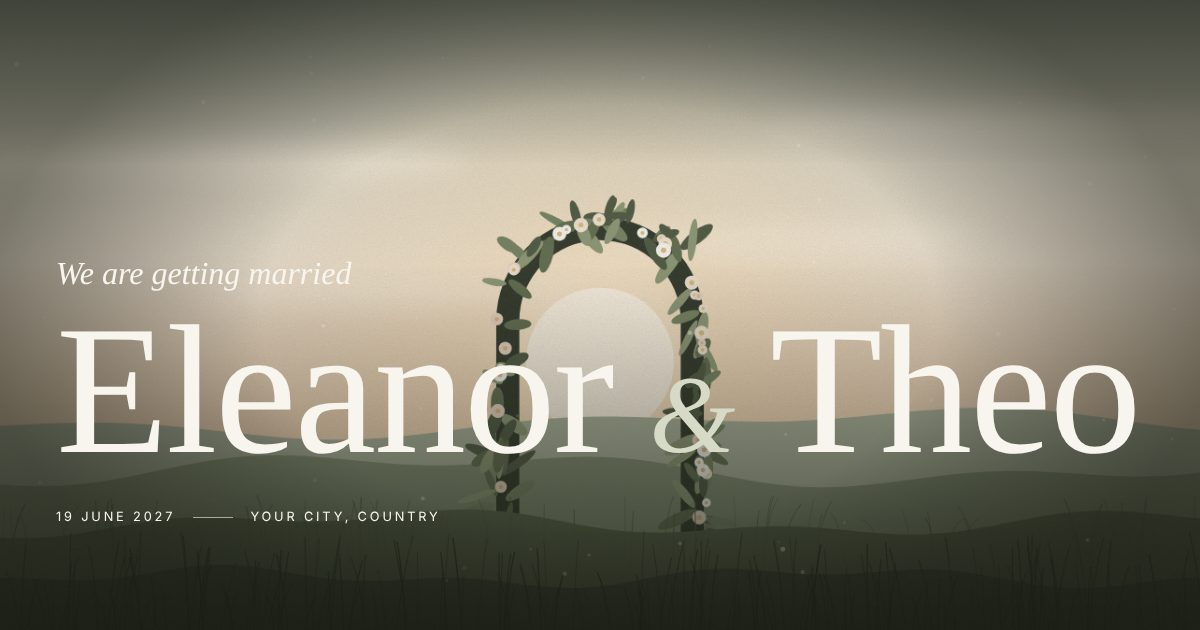
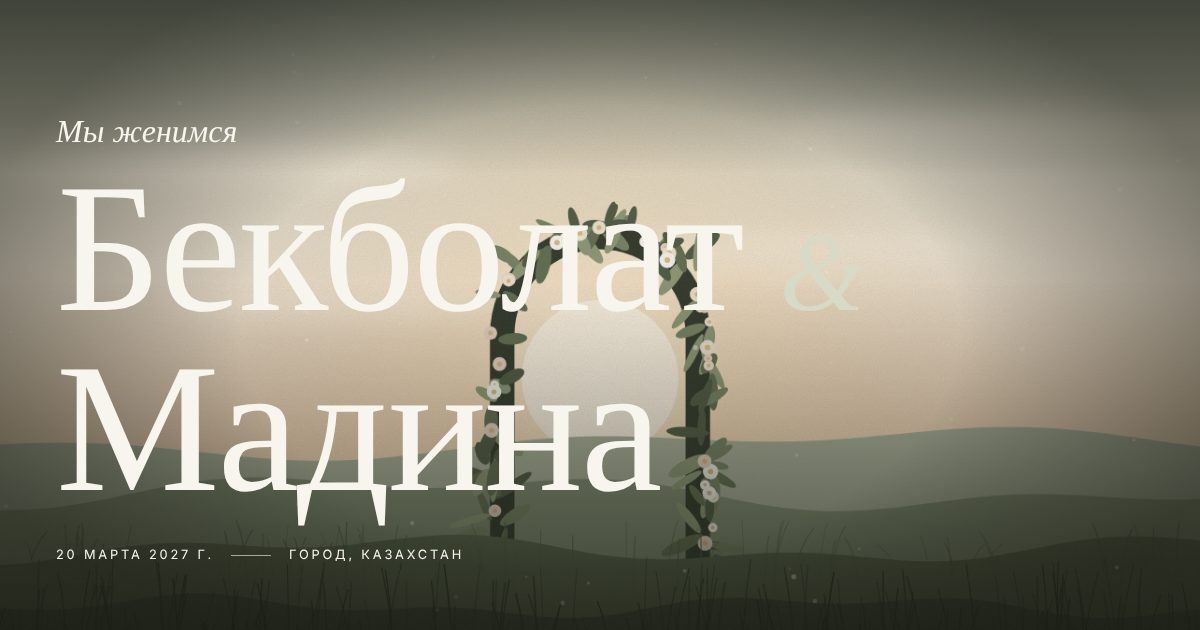
Set couple names, date, Russian default; hide placeholder story
Claude-Session: https://claude.ai/code/session_01RNUfpmcLh5siSrdeYY7ep2

diff --git a/src/config.js b/src/config.js
@@ -20,14 +20,14 @@ window.WEDDING_CONFIG = {
 
   /* ---------------------------------------------------------------- Language */
   languages: {
-    default: 'en',
+    default: 'ru',
     available: ['en', 'ru'],   // first-time visitors see their browser language if listed here
     detect: true,              // false = always start in `default`
   },
 
   /* ---------------------------------------------------------------- Sections */
   sections: {
-    story: true,        // "Our story"
+    story: false,       // "Our story" - off until the couple's real story is added
     countdown: true,
     schedule: true,
     venue: true,
@@ -37,9 +37,9 @@ window.WEDDING_CONFIG = {
 
   /* ------------------------------------------------------------------ Couple */
   couple: {                                            // PLACEHOLDER
-    first:  { en: 'Eleanor', ru: 'Элеонора' },
-    second: { en: 'Theo',    ru: 'Тео' },
-    hashtag: '#EleanorAndTheo',                        // PLACEHOLDER (use '' to hide)
+    first:  { en: 'Bekbolat', ru: 'Бекболат' },
+    second: { en: 'Madina',   ru: 'Мадина' },
+    hashtag: '',                                       // e.g. '#БекболатИМадина' ('' hides it)
   },
 
   /* ------------------------------------------------------------------- Event */
@@ -48,9 +48,9 @@ window.WEDDING_CONFIG = {
     // The countdown converts it using `timeZone`, so it is correct for every
     // visitor wherever they are. Use an IANA name such as 'Europe/Paris',
     // 'Asia/Almaty', 'America/New_York'.
-    start: '2027-06-19T16:00',                         // PLACEHOLDER
-    timeZone: 'Europe/Paris',                          // PLACEHOLDER
-    placeLabel: { en: 'Your City, Country', ru: 'Ваш город, страна' },  // PLACEHOLDER
+    start: '2027-03-20T16:00',                         // DATE confirmed; TIME 16:00 is a PLACEHOLDER
+    timeZone: 'Asia/Atyrau',                         // ASSUMED (UTC+5); confirm the venue city
+    placeLabel: { en: 'City, Kazakhstan', ru: 'Город, Казахстан' },  // PLACEHOLDER
   },
 
   /* ------------------------------------------------------------------ Images */
@@ -185,7 +185,7 @@ window.WEDDING_CONFIG = {
 
   /* -------------------------------------------------------------------- RSVP */
   rsvp: {
-    deadline: '2027-05-15',     // PLACEHOLDER  last day to reply (YYYY-MM-DD, venue time zone)
+    deadline: '2027-03-01',     // PLACEHOLDER  last day to reply (YYYY-MM-DD, venue time zone)
     maxGuests: 4,               // largest party one reply can cover
     // Where replies are sent. Leave '' until you connect a service: the form
     // will then say plainly that nothing was saved. See README, "Collecting

diff --git a/src/index.html b/src/index.html
@@ -1,17 +1,17 @@
 <!doctype html>
-<html lang="en">
+<html lang="ru">
 <head>
   <meta charset="utf-8">
   <meta name="viewport" content="width=device-width, initial-scale=1, viewport-fit=cover">
-  <title>Eleanor &amp; Theo · Wedding invitation</title>
-  <meta name="description" content="You are invited to the wedding of Eleanor and Theo. Schedule, venue, dress code and RSVP.">
+  <title>Бекболат &amp; Мадина · Свадебное приглашение</title>
+  <meta name="description" content="Приглашаем вас на свадьбу Бекболата и Мадины, 20 марта 2027. Программа, место, дресс-код и подтверждение участия.">
   <meta name="theme-color" content="#41483A">
   <meta name="color-scheme" content="light dark">
 
   <!-- Social sharing preview. Replace og:image with a real photo (make it an ABSOLUTE https URL to a 1200x630 JPG, e.g. https://your-domain/images/og.jpg) once the site is hosted. -->
   <meta property="og:type" content="website">
-  <meta property="og:title" content="Eleanor &amp; Theo · Wedding invitation">
-  <meta property="og:description" content="You are invited to the wedding of Eleanor and Theo.">
+  <meta property="og:title" content="Бекболат &amp; Мадина · Свадебное приглашение">
+  <meta property="og:description" content="Приглашаем вас на свадьбу Бекболата и Мадины, 20 марта 2027.">
   <meta property="og:image" content="images/og.jpg">
   <meta property="og:image:width" content="1200">
   <meta property="og:image:height" content="630">
